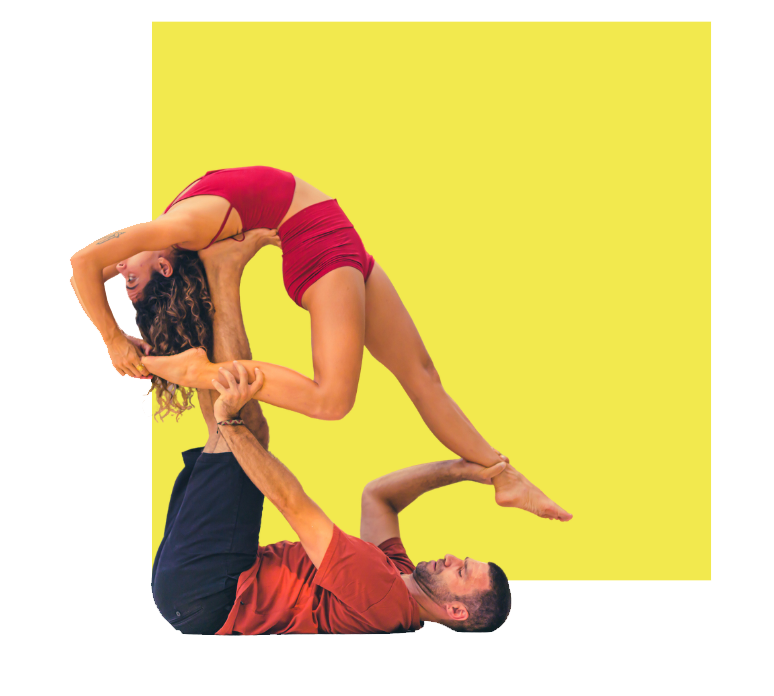
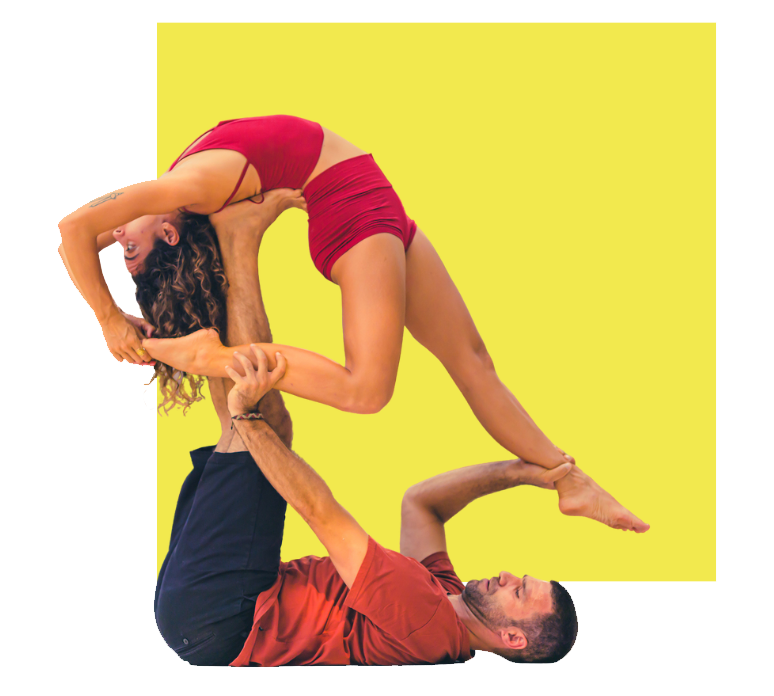
change max-w navbar & footer

Changed region(s): [[0.062, 0.0302, 0.8372, 0.9655], [0.8992, 0.0302, 0.9302, 0.8448]]

diff --git a/src/app/page.tsx b/src/app/page.tsx
@@ -22,8 +22,9 @@ export default function Home() {
           <p className="mt-4 text-lg text-gray-700">
             Είμαστε εδώ για να σας βοηθήσουμε. Επικοινωνήστε μαζί μας για περισσότερες πληροφορίες σχετικά με τα εκπαιδευτικά μας προγράμματα και τα workshops.
           </p>
-          <div className="mt-8">
-            <Link href="/contact" className="bg-[#F2E94E] text-black font-semibold py-3 px-8 rounded-ss-2xl rounded-br-2xl hover:bg-[#f0e631] transition-colors duration-300 transform hover:scale-105">
+          <div className="gap-4 justify-center md:justify-start mt-8">
+            <Link href="/contact" className="bg-[#F2E94E] text-black font-semibold py-3 px-8 rounded-ss-2xl rounded-br-2xl hover:bg-[#F2E94E] hover:text-black transition-colors duration-300 transform hover:scale-105"
+            >
               Επικοινωνία
             </Link>
           </div>
@@ -37,7 +38,7 @@ export default function Home() {
             Ακολουθήστε το blog μας για τα τελευταία νέα, άρθρα και ενημερώσεις από τον κόσμο της aerial yoga και της εκπαίδευσης.
           </p>
           <div className="mt-8">
-            <Link href="/blog" className="bg-transparent border-2 border-black text-black font-semibold py-3 px-8 rounded-ss-2xl rounded-br-2xl hover:bg-black hover:text-white transition-colors duration-300 transform hover:scale-105">
+            <Link href="/blog" className="bg-transparent border-2 border-black text-black font-semibold py-3 px-8 rounded-ss-2xl rounded-br-2xl hover:bg-[#F2E94E] hover:text-black transition-colors duration-300 transform hover:scale-105">
               Επισκεφθείτε το Blog
             </Link>
           </div>

diff --git a/src/components/Footer.tsx b/src/components/Footer.tsx
@@ -3,7 +3,7 @@ import Image from "next/image";
 
 export default function FooterPage() {
   return (
-    <footer className="bg-white text-black shadow-md w-11/12 lg:w-3/5 align-center mx-auto rounded-2xl mt-6 p-4">
+    <footer className="bg-white text-black shadow-md w-11/12 lg:w-3/5 max-w-7xl align-center mx-auto rounded-2xl mt-6 p-4">
       <div className="container mx-auto py-12 px-8">
         <div className="grid grid-cols-1 sm:grid-cols-2 md:grid-cols-4 gap-8">
           {/* Column 1: Quick Links */}

diff --git a/src/components/Navbar.tsx b/src/components/Navbar.tsx
@@ -19,7 +19,7 @@ const Navbar = () => {
   ];
 
   return (
-    <header className="absolute top-6 left-0 right-0 z-50 w-11/12 lg:w-3/5 mx-auto rounded-2xl bg-white text-black shadow-md">
+    <header className="absolute top-6 left-0 right-0 z-50 w-11/12 lg:w-3/5 max-w-7xl mx-auto rounded-2xl bg-white text-black shadow-md">
       <nav className="container mx-auto flex justify-between items-center p-4">
         <Link href="/" onClick={() => setIsMenuOpen(false)}>
              <Image
